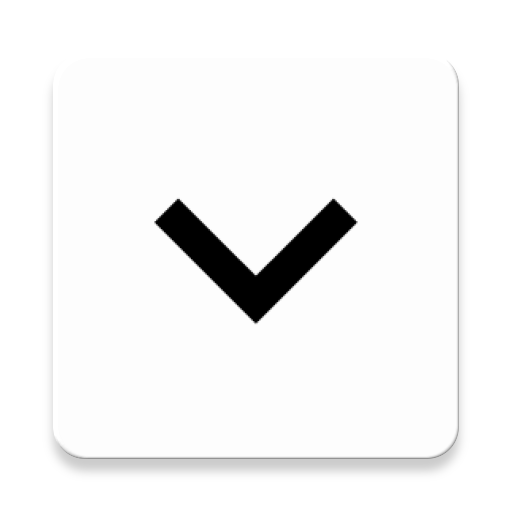
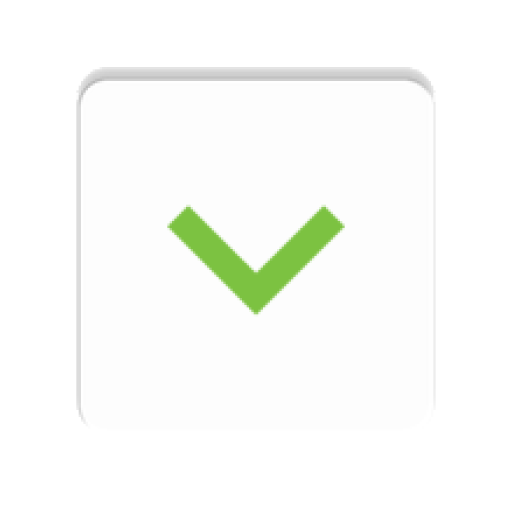
przyciski wyszarzanie, umiejscowienie tekstu

diff --git a/app/src/main/java/activity/ViewActivity.java b/app/src/main/java/activity/ViewActivity.java
@@ -45,8 +45,8 @@ public class ViewActivity extends Activity {
     protected void onCreate(Bundle savedInstanceState) {
         super.onCreate(savedInstanceState);
         setContentView(R.layout.activity_view);
-        Button button_up = (Button) findViewById(R.id.button_up);
-        Button button_down = (Button) findViewById(R.id.button_down);
+        final Button button_up = (Button) findViewById(R.id.button_up);
+        final Button button_down = (Button) findViewById(R.id.button_down);
         Button button_source = (Button) findViewById(R.id.source_button);
         Button button_destination = (Button) findViewById(R.id.destination_button);
         Button button_show_all = (Button) findViewById(R.id.button_show_all);
@@ -73,15 +73,17 @@ public class ViewActivity extends Activity {
         layout.setBackgroundDrawable(setBackgroundFromSD(graphicsMap.get(1)));
 
 
-        // trzeba dodać getExtras dla grafiki i domyślnie wczytać pierwszą
-
         final ArrayAdapter<String> pointsAdapter = new ArrayAdapter<>(ViewActivity.this, android.R.layout.select_dialog_singlechoice,viewResolver.getPointsId());
 
         button_up.setOnClickListener(new View.OnClickListener() {
             @Override
             public void onClick(View v) {
                 floor++;
-                if(floor >= numberOfFloor) floor = numberOfFloor;
+                if(floor >= numberOfFloor){
+                    floor = numberOfFloor;
+                    v.setBackgroundDrawable(getResources().getDrawable(R.mipmap.ic_floor_up_grey));
+                }
+                button_down.setBackgroundDrawable(getResources().getDrawable(R.mipmap.ic_floor_down));
                 viewResolver.setFloor(viewResolver.getFloor() + 1);
                 tv_floor.setText(String.valueOf(viewResolver.getFloor()));
                 layout.setBackgroundDrawable(setBackgroundFromSD(graphicsMap.get(floor)));
@@ -93,7 +95,12 @@ public class ViewActivity extends Activity {
             @Override
             public void onClick(View v) {
                 floor--;
-                if(floor <=1) floor =1;
+                if(floor <=1){
+                    floor =1;
+                    v.setBackgroundDrawable(getResources().getDrawable(R.mipmap.ic_floor_down_grey));
+                }
+                button_up.setBackgroundDrawable(getResources().getDrawable(R.mipmap.ic_floor_up));
+
                 viewResolver.setFloor(viewResolver.getFloor() - 1);
                 tv_floor.setText(String.valueOf(viewResolver.getFloor()));
                 layout.setBackgroundDrawable(setBackgroundFromSD(graphicsMap.get(floor)));

diff --git a/app/src/main/java/activity/MainActivity.java b/app/src/main/java/activity/MainActivity.java
@@ -8,6 +8,7 @@ import android.os.Bundle;
 import android.support.design.widget.FloatingActionButton;
 import android.view.KeyEvent;
 import android.view.View;
+import android.widget.Toast;
 
 import com.inz.przemek.dijkstra.R;
 
@@ -36,6 +37,16 @@ public class MainActivity extends Activity {
         toViewActivity = new Intent(MainActivity.this, ViewActivity.class);
         final Intent toAboutActivity = new Intent(MainActivity.this, AboutActivity.class);
         final Intent toManualActivity = new Intent(MainActivity.this, ManualActivity.class);
+        Intent fromSplashActivity = getIntent();
+        Bundle extras = fromSplashActivity.getExtras();
+
+        if (extras != null) {
+            if (extras.containsKey("noNetwork")) {
+                String msg = extras.getString("noNetwork");
+                Toast.makeText(getApplicationContext(),msg,Toast.LENGTH_LONG).show();
+            }
+        }
+
 
         viewResolerButton.setOnClickListener(new View.OnClickListener() {
             @Override

diff --git a/app/src/main/java/domain/Point.java b/app/src/main/java/domain/Point.java
@@ -18,7 +18,6 @@ public class Point extends View {
     public static final boolean ANTI_ALIAS = true;
     public static final float TEXT_SIZE = 25f;
     public static final float RADIUS = 9f;
-    public static final float SPACE_BETWEEN_POINT_AND_TEXT = 3.5f;
     public static final float LINE_WIDTH = 3f;
 
     private boolean isSelected;
@@ -161,7 +160,7 @@ public class Point extends View {
     @Override
     protected void onDraw(Canvas canvas) {
         super.onDraw(canvas);
-        canvas.drawText(name, getX() + SPACE_BETWEEN_POINT_AND_TEXT * RADIUS, getY() + RADIUS, textStyle);
+        canvas.drawText(name, getX() + 2.8f * RADIUS + name.length()*3, getY() + RADIUS, textStyle);
         canvas.drawCircle(getX(), getY(), RADIUS, pointStyle);
     }
 }

diff --git a/app/src/main/java/activity/SplashActivity.java b/app/src/main/java/activity/SplashActivity.java
@@ -73,7 +73,8 @@ public class SplashActivity extends Activity {
             }).execute();
         }
         else {
-            Toast.makeText(this, "No network, check your connection", Toast.LENGTH_LONG).show();
+            toMainActivity.putExtra("noNetwork","No network. The previous configuration is loaded");
+            startActivity(toMainActivity);
         }
     }
 
